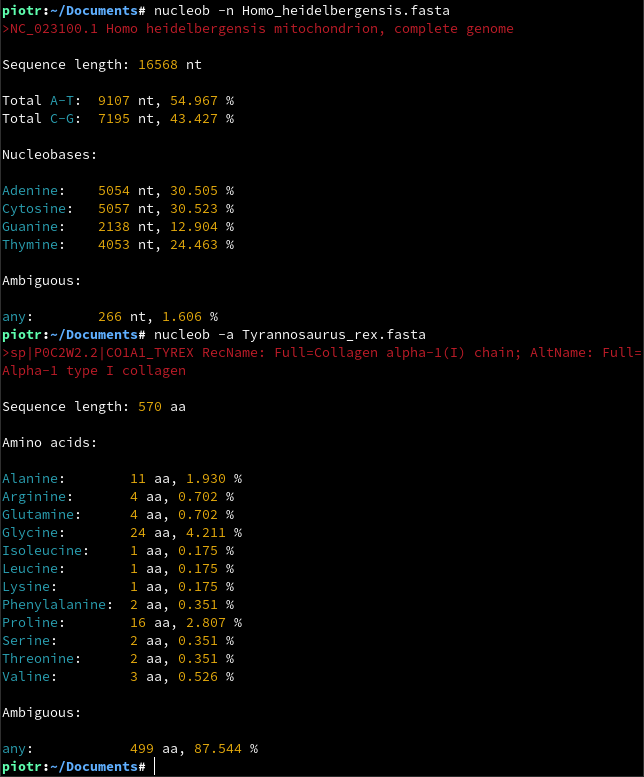
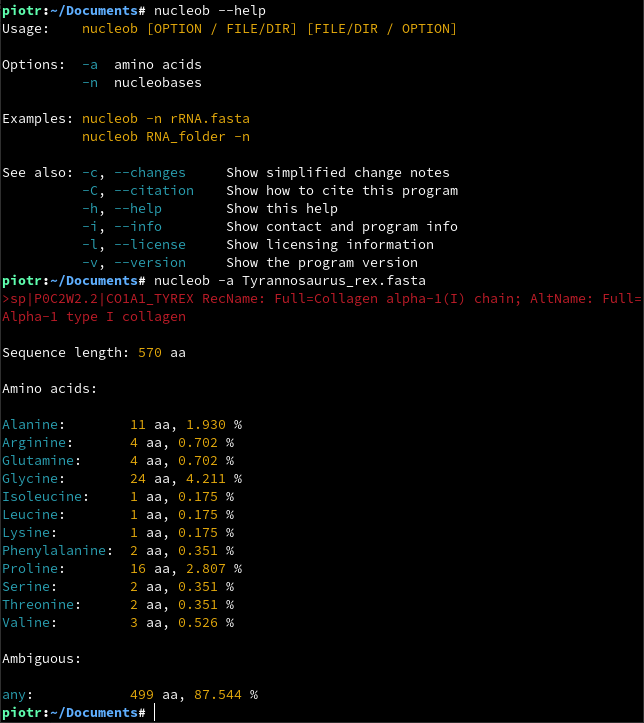
Add files via upload

diff --git a/src/stat.rs b/src/stat.rs
@@ -1,11 +1,11 @@
-// NUCLEOB VERSION 1.0.0 / MIT LICENSE © 2022 PIOTR BAJDEK
+// NUCLEOB VERSION 1.1.0 / MIT LICENSE © 2022 PIOTR BAJDEK
 
 // MODULE STAT
 
 // CLIPPY LINTS
 
 #![warn(clippy::nursery, clippy::pedantic)]
-#![allow(clippy::missing_panics_doc)]
+#![allow(clippy::missing_panics_doc, clippy::too_many_lines)]
 
 // IMPORTS
 
@@ -18,10 +18,7 @@ pub mod nucleobases;
 
 // OPTIONS FOR CALCULATIONS
 
-pub fn slct() {
-    let reset = "\x1b[0m";
-    let red = "\x1b[31m";
-
+pub fn slct(reset: &str, yellow: &str, red: &str, cyan: &str) {
     let args: Vec<String> = env::args().collect();
 
     let input1 = args.get(1).expect(&(red.to_owned() + "Invalid or missing arguments! See: --help" + reset));
@@ -50,25 +47,45 @@ pub fn slct() {
             let isdir: bool = Path::new(input2).is_dir();
             let isfile: bool = Path::new(input2).is_file();
             if isdir {
-                panic!("{}", red.to_owned() + input2 + " is a directory! See: --help" + reset);
-            // loading all files from a directory at once may be supported in future
+                for file in fs::read_dir(input2).unwrap() {
+                    let data0 = file.unwrap().path();
+
+                    let data_n = data0.clone();
+                    let fl_name0 = data_n.file_name().unwrap().to_str();
+                    let fl_name: &str = fl_name0.unwrap().trim();
+
+                    let data = fs::read_to_string(data0).expect(&(red.to_owned() + "Something went wrong reading the file!" + reset));
+                    amino_acids::a_count(&data, reset, yellow, red, cyan, fl_name);
+                    println!();
+                }
             } else if isfile {
+                let fl_name: &str = input2.trim();
                 let data = fs::read_to_string(input2).expect(&(red.to_owned() + "Something went wrong reading the file!" + reset));
-                amino_acids::a_count(&data);
+                amino_acids::a_count(&data, reset, yellow, red, cyan, fl_name);
             } else {
-                panic!("{}", red.to_owned() + "Something went wrong reading the file!" + reset);
+                panic!("{}", red.to_owned() + "Something went wrong reading the file or directory!" + reset);
             }
         } else if input2 == "-a" {
             let isdir: bool = Path::new(input1).is_dir();
             let isfile: bool = Path::new(input1).is_file();
             if isdir {
-                panic!("{}", red.to_owned() + input1 + " is a directory! See: --help" + reset);
-            // loading all files from a directory at once may be supported in future
+                for file in fs::read_dir(input1).unwrap() {
+                    let data0 = file.unwrap().path();
+
+                    let data_n = data0.clone();
+                    let fl_name0 = data_n.file_name().unwrap().to_str();
+                    let fl_name: &str = fl_name0.unwrap().trim();
+
+                    let data = fs::read_to_string(data0).expect(&(red.to_owned() + "Something went wrong reading the file!" + reset));
+                    amino_acids::a_count(&data, reset, yellow, red, cyan, fl_name);
+                    println!();
+                }
             } else if isfile {
+                let fl_name: &str = input1.trim();
                 let data = fs::read_to_string(input1).expect(&(red.to_owned() + "Something went wrong reading the file!" + reset));
-                amino_acids::a_count(&data);
+                amino_acids::a_count(&data, reset, yellow, red, cyan, fl_name);
             } else {
-                panic!("{}", red.to_owned() + "Something went wrong reading the file!" + reset);
+                panic!("{}", red.to_owned() + "Something went wrong reading the file or directory!" + reset);
             }
         }
         return;
@@ -81,25 +98,45 @@ pub fn slct() {
             let isdir: bool = Path::new(input2).is_dir();
             let isfile: bool = Path::new(input2).is_file();
             if isdir {
-                panic!("{}", red.to_owned() + input2 + " is a directory! See: --help" + reset);
-            // loading all files from a directory at once may be supported in future
+                for file in fs::read_dir(input2).unwrap() {
+                    let data0 = file.unwrap().path();
+
+                    let data_n = data0.clone();
+                    let fl_name0 = data_n.file_name().unwrap().to_str();
+                    let fl_name: &str = fl_name0.unwrap().trim();
+
+                    let data = fs::read_to_string(data0).expect(&(red.to_owned() + "Something went wrong reading the file!" + reset));
+                    nucleobases::n_count(&data, reset, yellow, red, cyan, fl_name);
+                    println!();
+                }
             } else if isfile {
+                let fl_name: &str = input2.trim();
                 let data = fs::read_to_string(input2).expect(&(red.to_owned() + "Something went wrong reading the file!" + reset));
-                nucleobases::n_count(&data);
+                nucleobases::n_count(&data, reset, yellow, red, cyan, fl_name);
             } else {
-                panic!("{}", red.to_owned() + "Something went wrong reading the file!" + reset);
+                panic!("{}", red.to_owned() + "Something went wrong reading the file or directory!" + reset);
             }
         } else if input2 == "-n" {
             let isdir: bool = Path::new(input1).is_dir();
             let isfile: bool = Path::new(input1).is_file();
             if isdir {
-                panic!("{}", red.to_owned() + input1 + " is a directory! See: --help" + reset);
-            // loading all files from a directory at once may be supported in future
+                for file in fs::read_dir(input1).unwrap() {
+                    let data0 = file.unwrap().path();
+
+                    let data_n = data0.clone();
+                    let fl_name0 = data_n.file_name().unwrap().to_str();
+                    let fl_name: &str = fl_name0.unwrap().trim();
+
+                    let data = fs::read_to_string(data0).expect(&(red.to_owned() + "Something went wrong reading the file!" + reset));
+                    nucleobases::n_count(&data, reset, yellow, red, cyan, fl_name);
+                    println!();
+                }
             } else if isfile {
+                let fl_name: &str = input1.trim();
                 let data = fs::read_to_string(input1).expect(&(red.to_owned() + "Something went wrong reading the file!" + reset));
-                nucleobases::n_count(&data);
+                nucleobases::n_count(&data, reset, yellow, red, cyan, fl_name);
             } else {
-                panic!("{}", red.to_owned() + "Something went wrong reading the file!" + reset);
+                panic!("{}", red.to_owned() + "Something went wrong reading the file or directory!" + reset);
             }
         }
         return;

diff --git a/src/menu.rs b/src/menu.rs
@@ -1,4 +1,4 @@
-// NUCLEOB VERSION 1.0.0 / MIT LICENSE © 2022 PIOTR BAJDEK
+// NUCLEOB VERSION 1.1.0 / MIT LICENSE © 2022 PIOTR BAJDEK
 
 // MODULE MENU
 
@@ -13,18 +13,14 @@ use std::process::exit;
 
 // DOCUMENTATION
 
-pub fn documentation() {
-    let reset = "\x1b[0m";
-    let yellow = "\x1b[93m";
-    let blue_underlined = "\x1b[34;4m";
-    let cyan = "\x1b[36m";
-
+pub fn documentation(reset: &str, yellow: &str, blue_underlined: &str, cyan: &str) {
     // ARGUMENTS ANYWHERE WITHIN THE STRING
 
     for argument in env::args() {
         // CHANGES
 
         if argument == "-c" || argument == "--changes" {
+            println!("25.11.2022 v1.1.0 – nucleob can now read all files from a directory");
             println!("14.10.2022 v1.0.0 – Implemented{}", cyan.to_owned() + " -a" + reset + ", " + cyan + "-n" + reset);
             exit(0);
         }
@@ -32,27 +28,27 @@ pub fn documentation() {
         // CITATION
 
         if argument == "-C" || argument == "--citation" {
-            println!("Bajdek, P., 2022. nucleob (version 1.0.0). [computer software] https://github.com/piotrbajdek/nucleob");
+            println!("Bajdek, P., 2022. nucleob (version 1.1.0). [computer software] https://github.com/piotrbajdek/nucleob");
             exit(0);
         }
 
         // HELP
 
         if argument == "-h" || argument == "--help" {
-            println!("Usage:{}", yellow.to_owned() + "    nucleob [OPTION / FILE] [FILE / OPTION]" + reset);
+            println!("Usage:{}", yellow.to_owned() + "    nucleob [OPTION / FILE/DIR] [FILE/DIR / OPTION]" + reset);
             println!();
             println!("Options:  {}", cyan.to_owned() + "-a" + reset + "  amino acids");
             println!("          {}", cyan.to_owned() + "-n" + reset + "  nucleobases");
             println!();
             println!("Examples:{}", yellow.to_owned() + " nucleob -n rRNA.fasta");
-            println!("          nucleob rRNA.fasta -n");
+            println!("          nucleob RNA_folder -n");
             println!("{}", reset);
-            println!("See also: {}", cyan.to_owned() + "-c" + reset + ", " + cyan + "--changes" + reset + "    Show simplified change notes");
-            println!("          {}", cyan.to_owned() + "-C" + reset + ", " + cyan + "--citation" + reset + "   Show how to cite this program");
-            println!("          {}", cyan.to_owned() + "-h" + reset + ", " + cyan + "--help" + reset + "       Show this help");
-            println!("          {}", cyan.to_owned() + "-i" + reset + ", " + cyan + "--info" + reset + "       Show contact and program info");
-            println!("          {}", cyan.to_owned() + "-l" + reset + ", " + cyan + "--license" + reset + "    Show licensing information");
-            println!("          {}", cyan.to_owned() + "-v" + reset + ", " + cyan + "--version" + reset + "    Show the program version");
+            println!("See also: {}", cyan.to_owned() + "-c" + reset + ", " + cyan + "--changes" + reset + "     Show simplified change notes");
+            println!("          {}", cyan.to_owned() + "-C" + reset + ", " + cyan + "--citation" + reset + "    Show how to cite this program");
+            println!("          {}", cyan.to_owned() + "-h" + reset + ", " + cyan + "--help" + reset + "        Show this help");
+            println!("          {}", cyan.to_owned() + "-i" + reset + ", " + cyan + "--info" + reset + "        Show contact and program info");
+            println!("          {}", cyan.to_owned() + "-l" + reset + ", " + cyan + "--license" + reset + "     Show licensing information");
+            println!("          {}", cyan.to_owned() + "-v" + reset + ", " + cyan + "--version" + reset + "     Show the program version");
             exit(0);
         }
 
@@ -60,8 +56,8 @@ pub fn documentation() {
 
         if argument == "-i" || argument == "--info" {
             println!("Program:  {}", yellow.to_owned() + "nucleob" + reset);
-            println!("Version:  1.0.0");
-            println!("Date:     October 14, 2022");
+            println!("Version:  1.1.0");
+            println!("Date:     November 25, 2022");
             println!("Author:   Piotr Bajdek (Poland)");
             println!("Contact:  {}", blue_underlined.to_owned() + "piotr.bajdek@proton.me" + reset);
             println!("ORCID:    {}", blue_underlined.to_owned() + "https://orcid.org/0000-0003-2678-3122" + reset);
@@ -88,8 +84,8 @@ pub fn documentation() {
         // VERSION
 
         if argument == "-v" || argument == "--version" {
-            println!("Version: {}", yellow.to_owned() + "1.0.0" + reset);
-            println!("October 14, 2022");
+            println!("Version: {}", yellow.to_owned() + "1.1.0" + reset);
+            println!("November 25, 2022");
             exit(0);
         }
     }

diff --git a/src/stat/amino_acids.rs b/src/stat/amino_acids.rs
@@ -1,4 +1,4 @@
-// NUCLEOB VERSION 1.0.0 / MIT LICENSE © 2022 PIOTR BAJDEK
+// NUCLEOB VERSION 1.1.0 / MIT LICENSE © 2022 PIOTR BAJDEK
 
 // MODULE AMINO_ACIDS
 
@@ -9,12 +9,7 @@
 
 // FUNCTION
 
-pub fn a_count(data: &str) {
-    let reset = "\x1b[0m";
-    let yellow = "\x1b[93m";
-    let red = "\x1b[31m";
-    let cyan = "\x1b[36m";
-
+pub fn a_count(data: &str, reset: &str, yellow: &str, red: &str, cyan: &str, fl_name: &str) {
     // TOO MANY SEQUENCES
 
     let mut seq_no = 0;
@@ -22,7 +17,8 @@ pub fn a_count(data: &str) {
         if line.starts_with('>') {
             seq_no += 1;
             if seq_no == 2 {
-                panic!("{}", red.to_owned() + "Too many sequences! Only one sequence per file is allowed." + reset);
+                println!("{}", red.to_owned() + "ERROR" + reset + ": Too many sequences in the file " + red + fl_name + reset + "! Only one sequence per file is allowed." + reset);
+                return;
             }
         }
     }

diff --git a/src/stat/nucleobases.rs b/src/stat/nucleobases.rs
@@ -1,4 +1,4 @@
-// NUCLEOB VERSION 1.0.0 / MIT LICENSE © 2022 PIOTR BAJDEK
+// NUCLEOB VERSION 1.1.0 / MIT LICENSE © 2022 PIOTR BAJDEK
 
 // MODULE NUCLEOBASES
 
@@ -9,12 +9,7 @@
 
 // FUNCTION
 
-pub fn n_count(data: &str) {
-    let reset = "\x1b[0m";
-    let yellow = "\x1b[93m";
-    let red = "\x1b[31m";
-    let cyan = "\x1b[36m";
-
+pub fn n_count(data: &str, reset: &str, yellow: &str, red: &str, cyan: &str, fl_name: &str) {
     // TOO MANY SEQUENCES
 
     let mut seq_no = 0;
@@ -22,7 +17,8 @@ pub fn n_count(data: &str) {
         if line.starts_with('>') {
             seq_no += 1;
             if seq_no == 2 {
-                panic!("{}", red.to_owned() + "Too many sequences! Only one sequence per file is allowed." + reset);
+                println!("{}", red.to_owned() + "ERROR" + reset + ": Too many sequences in the file " + red + fl_name + reset + "! Only one sequence per file is allowed." + reset);
+                return;
             }
         }
     }

diff --git a/src/main.rs b/src/main.rs
@@ -1,4 +1,4 @@
-// NUCLEOB VERSION 1.0.0 / MIT LICENSE © 2022 PIOTR BAJDEK
+// NUCLEOB VERSION 1.1.0 / MIT LICENSE © 2022 PIOTR BAJDEK
 
 // MAIN FILE
 
@@ -14,6 +14,12 @@ pub mod stat;
 // MAIN
 
 fn main() {
-    menu::documentation();
-    stat::slct();
+    let reset = "\x1b[0m";
+    let yellow = "\x1b[93m";
+    let red = "\x1b[31m";
+    let blue_underlined = "\x1b[34;4m";
+    let cyan = "\x1b[36m";
+
+    menu::documentation(reset, yellow, blue_underlined, cyan);
+    stat::slct(reset, yellow, red, cyan);
 }

diff --git a/README.md b/README.md
@@ -1,26 +1,34 @@
 # OVERVIEW OF NUCLEOB
 
-[nucleob](https://github.com/piotrbajdek/nucleob) performs a simple statistical analysis of .fasta files with either nucleotide or amino acid sequences. It is designed to give (1) highly reliable and (2) clearly formatted results, being also (3) supremely minimalist and (4) cross-platform with no system dependencies.
+[nucleob](https://github.com/piotrbajdek/nucleob) performs a simple statistical analysis of .fasta files with either nucleotide or amino acid sequences. It is designed to give (1) highly reliable and (2) clearly formatted results, being also (3) supremely minimalist and (4) cross-platform.
 
 [keywords: amino acids, bioinformatics, biology, DNA, fasta, genes, genetics, molecular, nucleic acids, nucleobases, nucleotides, proteins, RNA, scientific computing, statistics, stats]
 
 # EXAMPLES
 
-[Static link to a changeable image of the _most recent_ version of nucleob! This may include pre-releases!]
-
 ![example-image-1](https://github.com/piotrbajdek/nucleob/blob/main/docs/images/example-image-1.png?raw=true)
+
+![example-image-2](https://github.com/piotrbajdek/nucleob/blob/main/docs/images/example-image-2.png?raw=true)
 
 # CITATION AND REUSE
 
 You can modify and fork nucleob under terms of the [MIT License](https://github.com/piotrbajdek/nucleob/blob/main/LICENSE.md). Citing nucleob in a research article, always refer to a specific program version, e.g.:
 
-Bajdek, P., 2022. nucleob (version 1.0.0). [computer software] https://github.com/piotrbajdek/nucleob
+Bajdek, P., 2022. nucleob (version 1.1.0). [computer software] https://github.com/piotrbajdek/nucleob
 
 # INSTALLATION ON LINUX
 
-[nucleob](https://github.com/piotrbajdek/nucleob) should run smoothly on Windows and macOS, and can be installed by the use of [cargo](https://www.rust-lang.org/tools/install). Yet, it is being developed and tested on Fedora Linux.
+[nucleob](https://github.com/piotrbajdek/nucleob) should run smoothly on **Windows** and **macOS**, and can be installed by the use of [cargo](https://www.rust-lang.org/tools/install). Yet, it is being developed and primarily tested on **Fedora Linux**.
 
-## METHOD 1
+nucleob v1.1.0:
+
+– Was successfully tested on Arch Linux, Fedora Linux 37, openSUSE Tumbleweed, Ubuntu 22.04 and Ubuntu 22.10.
+
+– Failed to run on Mageia 8 due to an old glibc version (required ≥2.34).
+
+## METHOD 1 – BY THE USE OF CARGO
+
+**[recommended for programmers]**
 
 **1.** Install from crates.io by the use of cargo:
 
@@ -30,13 +38,11 @@ By default, the file will be downloaded to `.cargo/bin/`, a hidden folder in you
 
 **2a.** For convenience, you will probably want to copy nucleob to `/usr/bin/` as in Method 2 (3a, 3b).
 
-**2b.** Alternatively, add `~/.cargo/bin` directory to your PATH variable (see documentation of your shell).
+**2b.** Alternatively, add `~/.cargo/bin` directory to your PATH variable (can be set up by [rustup](https://www.rust-lang.org/tools/install)).
 
-## METHOD 2
+## METHOD 2 – LINUX UNIVERSAL BINARIES
 
-**1.** Download the binary 'nucleob' for Linux x86_64 from GitHub:
-
-https://github.com/piotrbajdek/nucleob/releases/tag/v1.0.0
+**1.** Download the distro-independent [binary](https://github.com/piotrbajdek/nucleob/releases/download/v1.1.0/nucleob) of nucleob from GitHub.
 
 **2.** Make the file executable:
 
@@ -50,16 +56,26 @@ _sudo cp nucleob /usr/bin/_
 
 _sudo cp nucleob /var/usrlocal/bin/_
 
-## METHOD 3
+## METHOD 3 – DISTRO-SPECIFIC PACKAGES
 
-Download and unpack the nucleob source from GitHub. Then, build and install the program:
+**[recommended for most users]**
 
-https://github.com/piotrbajdek/nucleob/releases/tag/v1.0.0
+Distro-specific packages are also available for download for [.rpm](https://github.com/piotrbajdek/nucleob/releases/download/v1.1.0/nucleob-1.1.0-1.x86_64.rpm)- and [.deb](https://github.com/piotrbajdek/nucleob/releases/download/v1.1.0/nucleob_1.1.0_amd64.deb)-based Linux distros. Installation instructions:
+
+Fedora Linux / RHEL / openSUSE:
+
+_sudo rpm -i nucleob-1.1.0-1.x86_64.rpm_
+
+Fedora Silverblue / Kinoite:
+
+_rpm-ostree install nucleob-1.1.0-1.x86_64.rpm_
+
+Ubuntu:
+
+_sudo dpkg -i nucleob_1.1.0_amd64.deb_
+
+## METHOD 4 – MANUAL COMPILATION
+
+Download and unpack the nucleob [source](https://github.com/piotrbajdek/nucleob/archive/refs/tags/v1.1.0.zip) from GitHub. Then, build and install the program:
 
 _cargo build \--release && sudo cp target/release/nucleob /usr/bin/_
-
-# NUCLEOB CRATE ON CRATES.IO
-
-The Rust community’s crate registry
-
-https://crates.io/crates/nucleob
